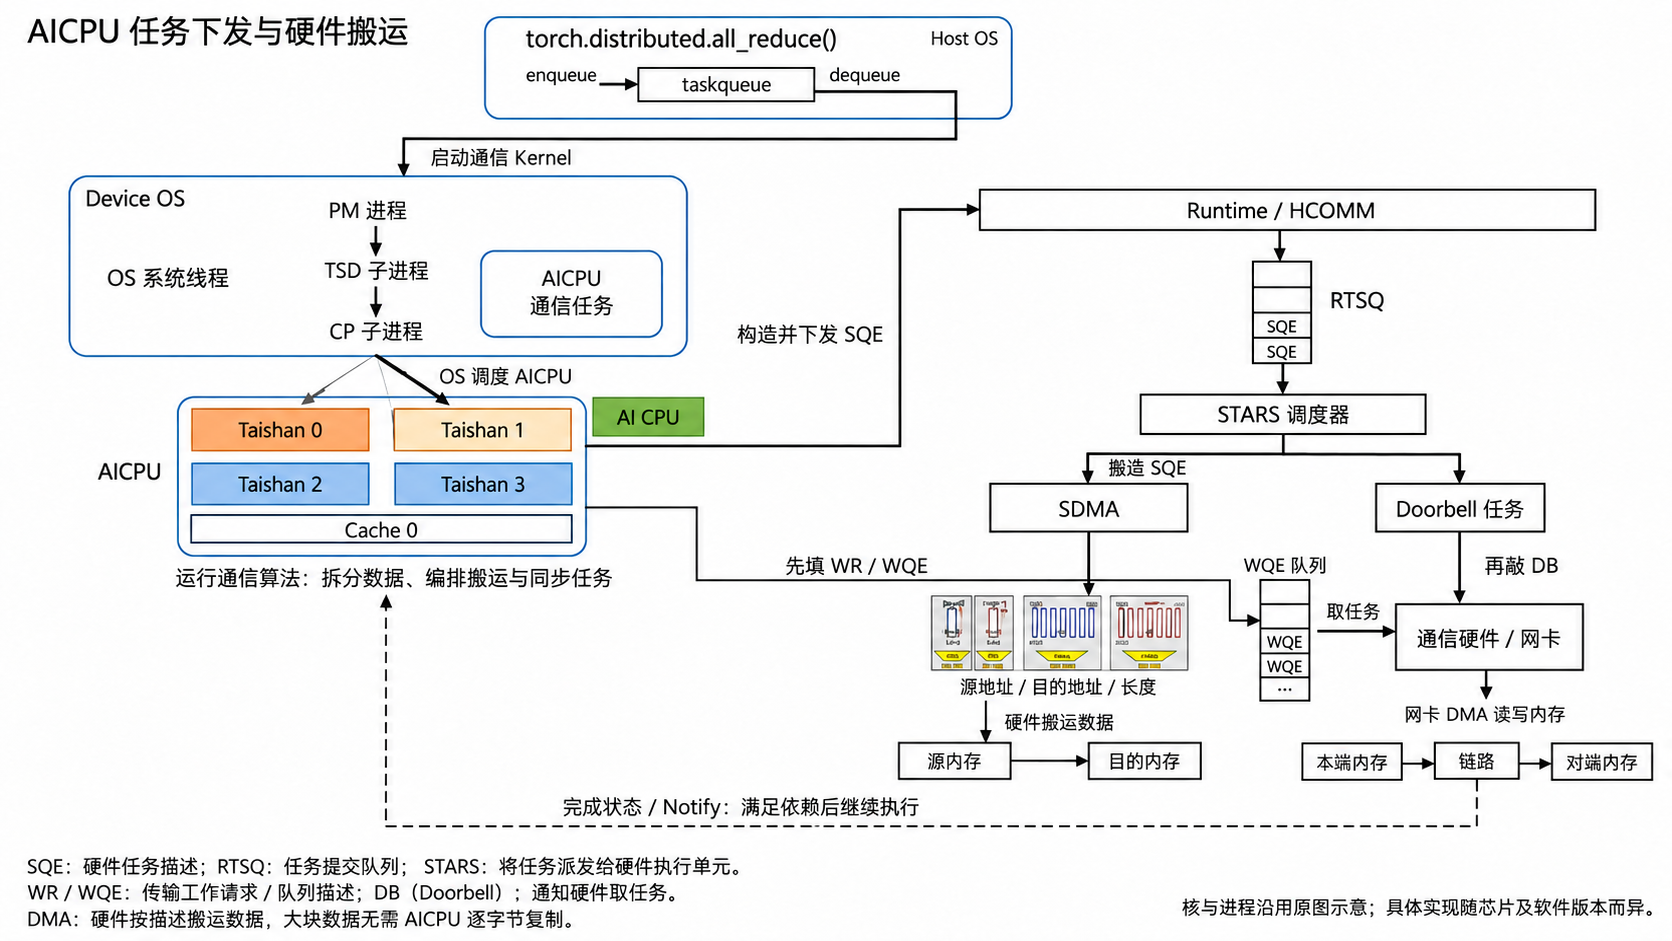
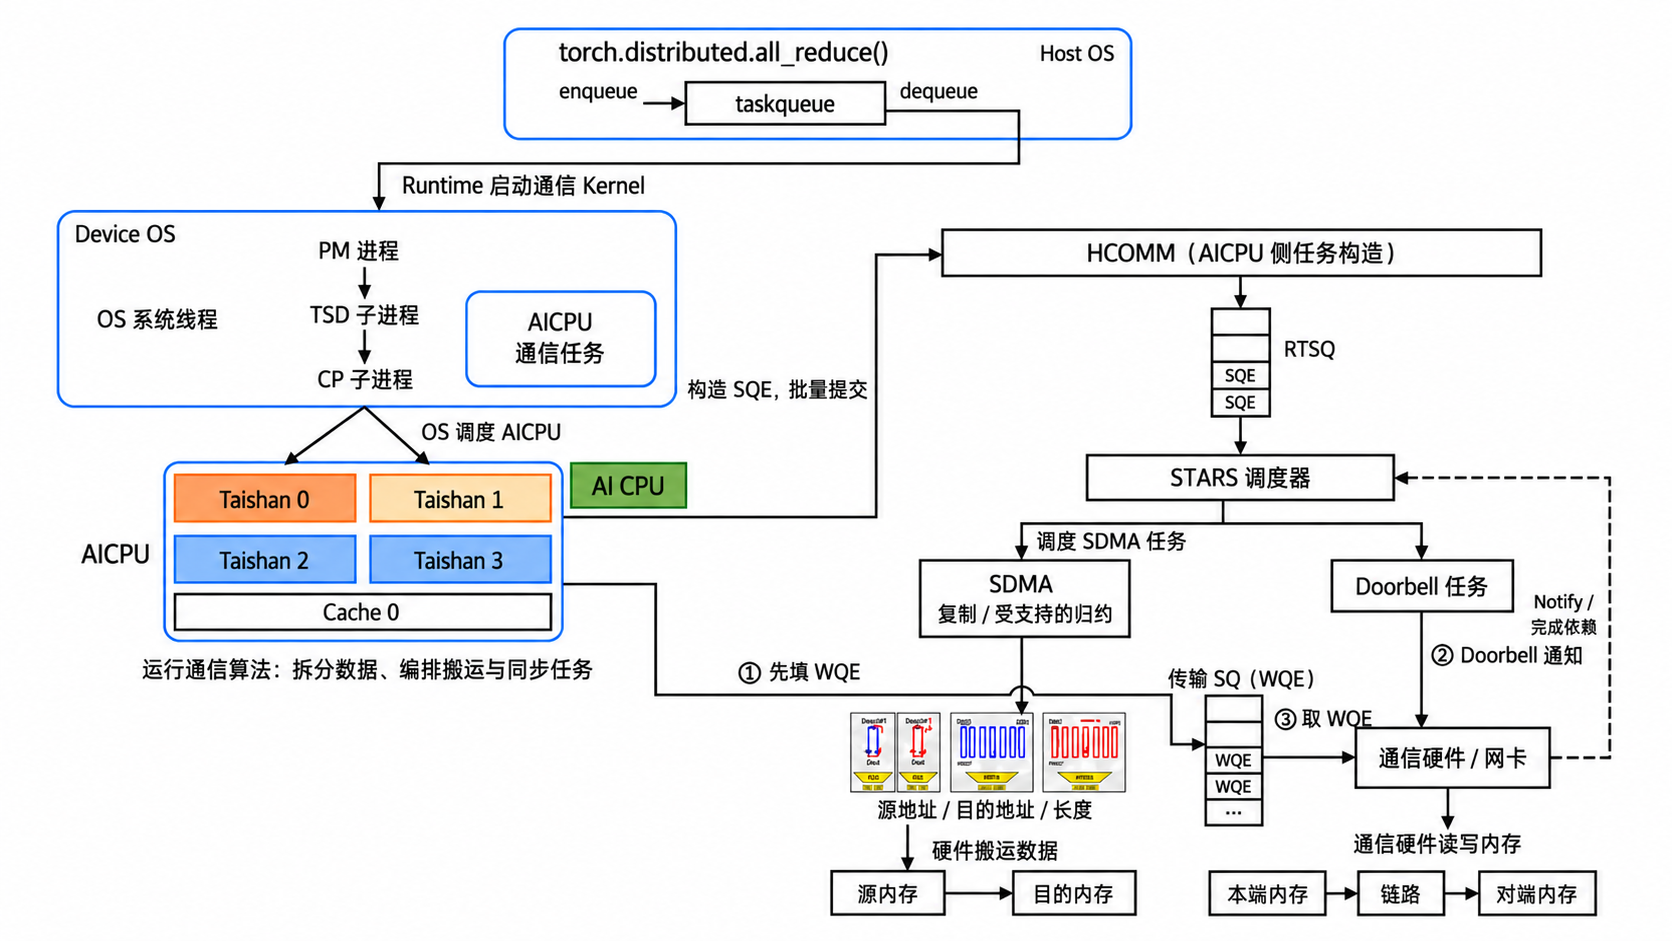
docs: clarify AICPU queue paths and update diagram layout

Changed region(s): [[0.0, 0.0, 0.9952, 0.9862], [0.0, 0.0, 0.2488, 0.0616], [0.933, 0.2157, 0.9641, 0.2465]]

diff --git a/docs/AICPU_DISPATCH_DMA_VERIFICATION.zh-CN.md b/docs/AICPU_DISPATCH_DMA_VERIFICATION.zh-CN.md
@@ -1,0 +1,62 @@
+# AICPU 任务下发与硬件搬运：图片核对说明
+
+核对日期：2026-10-14。对应[更新后的 16:9 图片](images/aicpu-task-dispatch-and-dma.png)。
+
+本轮保留原图的 Host、Device OS、PM/TSD/CP、AICPU/Taishan 核、Cache、RTSQ、STARS、SDMA、描述符小图、WQE 队列与通信硬件等元素，只调整画布比例、清理杂线、修正局部连线和文字。它是**机制示意图**：左侧核数、进程关系沿用原图，并非此次源码核对确认的所有型号通用硬件布局。
+
+## 1. SDMA 是否已经很少使用？
+
+**目前没有依据判断“SDMA 很少使用”。能够确认的是：SDMA 仍有明确使用路径，但其职责和占比取决于平台、引擎、算法及协议。**
+
+- 官方 HCCL 背景文档区分 SDMA（HCCS/PCIe）与 RDMA（RoCE）传输；因此不能将 SDMA 从通用机制图直接删除。[官方背景知识](https://gitee.com/ascend/cann-hccl/blob/e048c5face419f24486bf26712a426ded81402e7/docs/hccl_customized_dev/%E8%83%8C%E6%99%AF%E7%9F%A5%E8%AF%86.md)
+- CANN 9.1 的对称内存注册说明仍列出 Atlas A3 超节点内 HCCS 的 SDMA 通信；同一文档另外说明 Ascend 950 的 UB/URMA 场景。这说明必须区分平台，不能把 HCCS、RoCE、UB 看作同一种路径。此 API 的产品/算子限制不能外推为整个 HCCL 的能力限制。[HcclCommSymWinRegister](https://www.hiascend.com/document/detail/en/CANNCommunityEdition/910/commlib/hcclug/docs/en/api_ref/comm_mgr_c/HcclCommSymWinRegister.md)
+- 本仓 **Ascend 950 / AICPU_TS / 普通 MeshOneShot / FP32 SUM / UB Channel** 示例中，本地复制与受支持的本地归约使用 SDMA，而跨 Rank 写使用 UB WQE；两者可以参与同一个 AllReduce。见下方源码。
+- SDMA 也不等于“只能搬运本地内存”：仓库 P2P 内存语义读路径可把远端映射地址交给 SdmaCopy。
+
+判断“用得多不多”需要指定设备、CANN 版本和运行负载，再查看 Profiling 的任务类型、传输量及耗时。官方 MindStudio Insight 的通信分析提供链路类型与传输时间等字段；文档列出某条路径的存在，并不能证明其运行占比。[MindStudio Insight 带宽分析](https://www.hiascend.com/document/detail/zh/mindstudio/830/GUI_baseddevelopmenttool/msascendinsightug/Insight_userguide_0114.html)
+
+## 2. SQE 与 WQE 的真实关系
+
+图中两条线承载的是**任务/工作描述**，底部内存箭头才表示数据载荷。对已核对的普通 UB 路径，逻辑顺序为：
+
+1. AICPU 侧 HCOMM 构造 WQE，写入 UB jetty 的传输 SQ，推进生产指针 PI。
+2. 构造携带 jetty 标识及 PI 的 Doorbell SQE。SQE 先在本地任务缓存中形成，再由 LaunchTask 批量复制到设备 RTSQ、更新 tail。
+3. STARS 调度 Doorbell 任务，通知通信引擎处理工作队列中的 WQE；引擎依据描述执行内存访问。
+4. 同步依赖通过 Notify Wait 等机制控制后续任务，不能将“Doorbell 已提交”视为“传输已完成”。
+
+另一条独立路径为：**SDMA SQE → RTSQ → STARS → SDMA**。SDMA SQE 已描述地址、长度及操作。SDMA 不是 WQE 到达通信硬件之前必须经过的一站。
+
+原图两条线的交叉处现在使用**跨线弧**：横向 WQE 线跨过纵向 SDMA 线，交点不连接。完成依赖的虚线指向 STARS，表示调度中的同步约束；它不是中断线路图，也不表示每个 WQE 都产生 CQE 或都必须由 AICPU 轮询。
+
+**UB 与 RoCE 不能混用同一 Doorbell 编码。** 此图保留“通信硬件 / 网卡”的抽象节点，具体队列实现在 UB 中是 jetty SQ，在 RoCE 中是 QP SQ。当前源码的 UB Doorbell 是 UBDMA 类型、Doorbell 模式；RoCE Doorbell 则使用 WRITE_VALUE SQE。图示不覆盖直接提交、任务缓存重放等全部优化路径。
+
+## 3. 源码证据
+
+下面均固定到核对时的注释仓库提交 `5ad7402546ea51efa7538ba30193274366bb65e5`，依据实际调用、结构体及类型字段，避免后续注释变化造成行号漂移。
+
+| 核对点 | 实际行为 | 源码 |
+|---|---|---|
+| WQE 创建及入队 | 填地址、令牌和 SGE；LaunchOneWqe 将 WQE 复制至 UB SQ 环槽，推进 PI | [ub_conn_lite.cc:324–378](https://github.com/zstar1003/hccl-hcomm-annotated/blob/5ad7402546ea51efa7538ba30193274366bb65e5/hcomm/src/legacy/ascend950/unified_platform/resource/connection/aicpu/ub_conn_lite.cc#L324-L378) |
+| UB 提交先后 | Write 先调用 conn→Write，后生成 BuildUbDbSendTask | [ub_transport_lite_impl.cc:776–842](https://github.com/zstar1003/hccl-hcomm-annotated/blob/5ad7402546ea51efa7538ba30193274366bb65e5/hcomm/src/legacy/ascend950/unified_platform/resource/transport/aicpu/ub_transport_lite_impl.cc#L776-L842) |
+| Doorbell SQE | 用 jetty/die/function 标识与 PI 构造 UBDMA Doorbell 模式 SQE | [sqe_build_a5.h:246–274](https://github.com/zstar1003/hccl-hcomm-annotated/blob/5ad7402546ea51efa7538ba30193274366bb65e5/hcomm/src/legacy/ascend950/unified_platform/resource/stream/aicpu/sqe_build_a5.h#L246-L274) |
+| RTSQ 提交 | 复制本地 SQE 缓存到 RTSQ，再更新队尾 | [rtsq_a5.cc:288–356](https://github.com/zstar1003/hccl-hcomm-annotated/blob/5ad7402546ea51efa7538ba30193274366bb65e5/hcomm/src/legacy/ascend950/unified_platform/resource/stream/aicpu/rtsq_a5.cc#L288-L356) |
+| SDMA 拷贝/归约 | SdmaCopy 和 SdmaReduce 构造 SDMA SQE | [rtsq_a5.cc:558–628](https://github.com/zstar1003/hccl-hcomm-annotated/blob/5ad7402546ea51efa7538ba30193274366bb65e5/hcomm/src/legacy/ascend950/unified_platform/resource/stream/aicpu/rtsq_a5.cc#L558-L628) |
+| 本地原语落点 | LocalCopy→SdmaCopy；受支持的 LocalReduce→SdmaReduce | [aicpu_ts_thread.cc:372–461](https://github.com/zstar1003/hccl-hcomm-annotated/blob/5ad7402546ea51efa7538ba30193274366bb65e5/hcomm/src/base_comm/resources/comm_engine_res/threads/aicpu_ts_thread.cc#L372-L461) |
+| 远端映射内存 | P2P Read 使用远端地址作为源并调用 SdmaCopy | [p2p_transport_lite_impl.cc:222–255](https://github.com/zstar1003/hccl-hcomm-annotated/blob/5ad7402546ea51efa7538ba30193274366bb65e5/hcomm/src/legacy/ascend950/unified_platform/resource/transport/aicpu/p2p_transport_lite_impl.cc#L222-L255) |
+| 同步等待 | WaitWithTimeout 向流的 RTSQ 生成 NotifyWait | [ub_transport_lite_impl.cc:526–534](https://github.com/zstar1003/hccl-hcomm-annotated/blob/5ad7402546ea51efa7538ba30193274366bb65e5/hcomm/src/legacy/ascend950/unified_platform/resource/transport/aicpu/ub_transport_lite_impl.cc#L526-L534) |
+| RoCE 区别 | 先准备 WQE 再提交 Doorbell；Doorbell SQE 类型为 WRITE_VALUE | [roce_transport_lite_impl.cc:299–316](https://github.com/zstar1003/hccl-hcomm-annotated/blob/5ad7402546ea51efa7538ba30193274366bb65e5/hcomm/src/legacy/ascend950/unified_platform/resource/transport/aicpu/roce_transport_lite_impl.cc#L299-L316)；[sqe_build_a5.cc:175–194](https://github.com/zstar1003/hccl-hcomm-annotated/blob/5ad7402546ea51efa7538ba30193274366bb65e5/hcomm/src/legacy/ascend950/unified_platform/resource/stream/aicpu/sqe_build_a5.cc#L175-L194) |
+| MeshOneShot 实例 | 281 行复制本 Rank 输入；360 行批量写对端；452–476 行将其他 Rank 接收槽归约到输出 | [ins_temp_all_reduce_mesh_1D_one_shot.cc](https://github.com/zstar1003/hccl-hcomm-annotated/blob/5ad7402546ea51efa7538ba30193274366bb65e5/hccl/src/ops/all_reduce/algorithm/template/aicpu/ins_temp_all_reduce_mesh_1D_one_shot.cc#L245-L476) |
+| 归约边界 | INT64、UINT64、FP64 或 PROD 分支改走 AicpuReduce，不能把所有归约都归为 SDMA | [alg_data_trans_wrapper.cc:1271–1313](https://github.com/zstar1003/hccl-hcomm-annotated/blob/5ad7402546ea51efa7538ba30193274366bb65e5/hccl/src/ops/op_common/algorithm/template/wrapper/alg_data_trans_wrapper.cc#L1271-L1313) |
+
+源代码可以验证描述符构造、队列写入和驱动提交；图中硬件取任务/执行的箭头是机制抽象，并非对硬件内部逐周期实现的断言。官方术语表将 STARS 定义为系统任务与资源调度器，将 SDMA 解释为直接内存访问技术。[官方术语表](https://www.hiascend.com/document/detail/en/Glossary/gls/gls_0001.html)
+
+## 4. 图片变更及范围
+
+- 清除 CP 到 CPU 区域的多余细线，保留有意义的调度箭头；维持原图模块和配色。
+- 画布调整为 16:9，去除左上标题和底部释义小字，保留图内模块与流程标签。
+- Host 启动标为 Runtime；右上框标为 AICPU 侧 HCOMM 任务构造，区分启动与执行阶段。
+- “搬运 SQE”改为“调度 SDMA 任务”，增加 SDMA 作用说明。
+- WQE 路径标注“先填 WQE → Doorbell 通知 → 取 WQE”，并用跨线弧消除与 SDMA 的误连接。
+- 完成依赖回到 STARS 一侧；队列、Doorbell 和 SDMA 的释义保留在本核对说明中。
+
+图片通过内置 imagegen 进行局部编辑。本次以此前更新后的图片为蓝本，保留主要元素及左右布局，去除左上标题和底部释义小字，并调整为 16:9；此前清理杂线及修正 SQE/WQE 局部连线的内容继续保留。本轮没有改变通信代码，没有上板测量 SDMA 利用率，也没有将图中核/进程布局认定为所有型号的实现。

diff --git a/README.md b/README.md
@@ -26,7 +26,7 @@ rg -n '\[中文导读\]' hccl/src hcomm/src
 
 ![AICPU任务下发与硬件搬运](docs/images/aicpu-task-dispatch-and-dma.png)
 
-[查看原尺寸图片](docs/images/aicpu-task-dispatch-and-dma.png)。左侧展示Host、Device OS与AICPU，右侧展示RTSQ、STARS及SDMA和网络DMA路径。此图为非官方机制示意，核与进程布局不代表所有型号；具体实现随芯片及软件版本而异。
+[查看 16:9 图片](docs/images/aicpu-task-dispatch-and-dma.png) / [资料与源码核对说明](docs/AICPU_DISPATCH_DMA_VERIFICATION.zh-CN.md)。图片去除左上标题和底部释义小字，术语解释保留在配套核对说明中。保留原图的Host、Device OS与AICPU元素，局部澄清RTSQ中的SQE、传输SQ中的WQE以及独立的SDMA执行路径；跨线弧表示两条线不连接。此图为非官方机制示意，核与进程布局沿用原图，不代表所有型号；UB与RoCE的Doorbell编码、具体执行路径随平台及软件版本而异。
 
 ## 来源与版本
 
